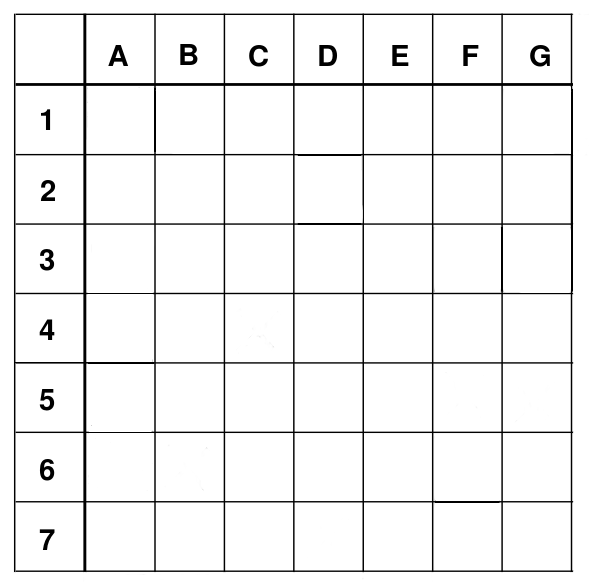
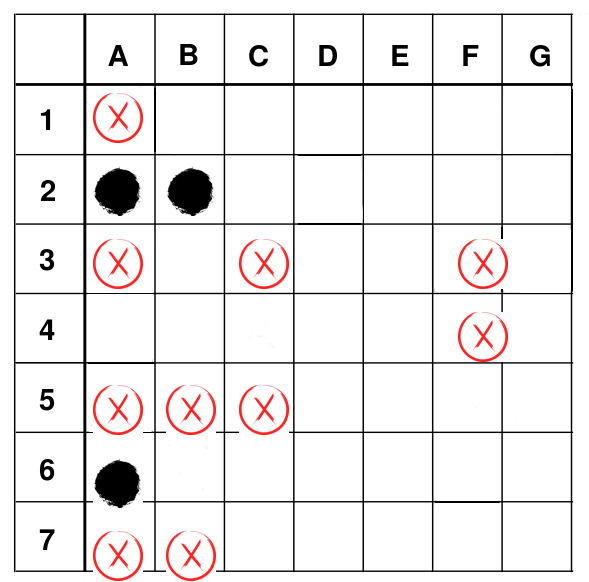
battleship update

diff --git a/bot.py b/bot.py
@@ -249,7 +249,7 @@ def run_discord_bot():
         # loadings
         battleships.battle_ships_board = Image.open('images/ships/Battleship_game_board.png')
         battleships.battle_ships_board.save('images/ships/Battleship_game_board_with_pieces.png')
-        battleships.battle_ships_with_pieces = Image.open('images/ships/Battleship_game_board_with_pieces.png')
+        battleships.battle_ships_board_with_pieces = Image.open('images/ships/Battleship_game_board_with_pieces.png')
         battleships.battle_ships_board.close()
 
         battleships.trafiony = Image.open('images/ships/trafiony.png')
@@ -323,20 +323,17 @@ def run_discord_bot():
                 battleships.hit_board[row][col] = 'X'
                 await ctx.send("`Trafiony!`")
                 battleships.trafiony_count += 1
-                if battleships.check_if_sunk(row, col) == True:
+                if battleships.check_if_sunk(row, col):
                     await ctx.send("`Zatopiony!`")
-                    # battleships.generate_game_board(row, col)
-                #     battleships.generate_board()
-                #     await ctx.send(file=discord.File('images/ships/Battleship_game_board_with_pieces.png'))
-                # battleships.generate_board()
+                    battleships.generate_game_board(battleships.hit_board)
+                    # await ctx.send(file=discord.File('images/ships/Battleship_game_board_with_pieces.png'))
+                battleships.generate_game_board(battleships.hit_board)
                 # await ctx.send(file=discord.File('images/ships/Battleship_game_board_with_pieces.png'))
             else:
                 battleships.computer_generated_board[row][col] = 'o'
                 battleships.hit_board[row][col] = 'o'
                 await ctx.send("`Pudło!`")
-                battleships.battle_ships_board_with_pieces.paste(battleships.pudlo.resize((50, 50)), battleships.piece_position(row, col))
-                battleships.battle_ships_board_with_pieces.save('images/ships/Battleship_game_board_with_pieces.png')
-                # battleships.generate_board()
+                battleships.generate_game_board(battleships.hit_board)
                 # await ctx.send(file=discord.File('images/ships/Battleship_game_board_with_pieces.png'))
 
             await ctx.send(file=discord.File('images/ships/Battleship_game_board_with_pieces.png'))

diff --git a/battleships.py b/battleships.py
@@ -24,15 +24,17 @@ global zatopiony
 #         row += 1
 
 
-def generate_game_board(row, col):
+def generate_game_board(board):
 
-    if hit_board[row][col] == 'X':
-        battle_ships_board_with_pieces.paste(trafiony.resize((50, 50)), piece_position(row, col))
-    elif hit_board[row][col] == 'o':
-        battle_ships_board_with_pieces.paste(pudlo.resize((50, 50)), piece_position(row, col))
-    elif hit_board[row][col] == 'O':
-        battle_ships_board_with_pieces.paste(zatopiony.resize((50, 50)), piece_position(row, col))
-    battle_ships_board_with_pieces.save('images/ships/Battleship_game_board_with_pieces.png')
+    for row in range(7):
+        for col in range(7):
+            if board[row][col] == 'X':
+                battle_ships_board_with_pieces.paste(trafiony.resize((50, 50)), piece_position(row, col))
+            elif board[row][col] == 'o':
+                battle_ships_board_with_pieces.paste(pudlo.resize((50, 50)), piece_position(row, col))
+            elif board[row][col] == 'O':
+                battle_ships_board_with_pieces.paste(zatopiony.resize((50, 50)), piece_position(row, col))
+            battle_ships_board_with_pieces.save('images/ships/Battleship_game_board_with_pieces.png')
 
 
 def clear_board_computer():
